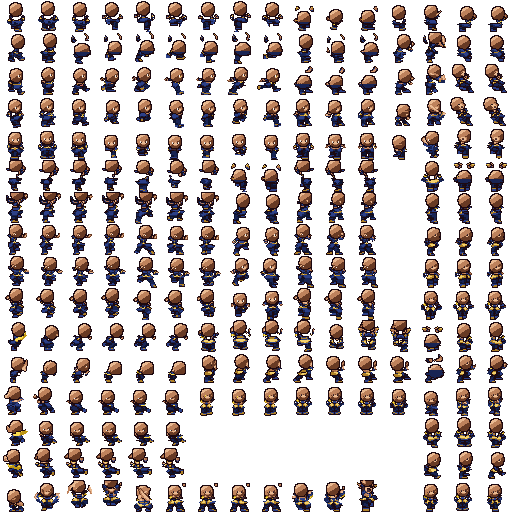
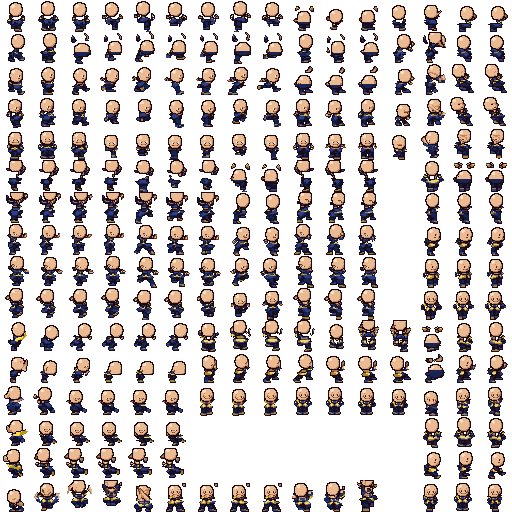
Bald heads lit the same from every side
The bald head was lit from the upper left in two halves, so from the front a dark half fell across the face and from behind it looked like a half-shaded egg, while the side views read fine. It is now the face's own light tone all over, with a thin shadow crescent on the lower-right rim and a small shine up on the left, so the down, up and side views match.

diff --git a/misc/hero_skins/make_skins.py b/misc/hero_skins/make_skins.py
@@ -148,6 +148,9 @@ HEAD_ROW_PIXELS = 5
 # NOTE: marker colours for the slash streak between bald_head and the
 # palette; nothing in the original uses them
 STREAK = [(1, 2, 3), (4, 5, 6), (7, 8, 9)]
+# NOTE: marker for the bald head's shine, turned into SHINE_RGB
+SHINE = (10, 11, 12)
+SHINE_RGB = (252, 222, 196)
 
 
 def components(mask):
@@ -335,11 +338,14 @@ def bald_head(cell):
     nx = (xx + 0.5 - bx) / BALD_RX
     ny = (yy + 0.5 - by) / BALD_RY
     dome = (nx ** 2 + ny ** 2 <= 1.0) & ~streak
-    light = 0.62 - 0.35 * nx - 0.55 * ny
-    shade = np.where(light > 0.95, 2, np.where(light > 0.55, 1, 0))
-    for k in range(3):
-        m = dome & (shade == k)
-        cell[m] = SKIN[k] + (255,)
+    # NOTE: shaded so it reads the same from every side: the face's own
+    # light tone all over, a thin shadow crescent on the lower right rim
+    # and a small shine up on the left, never a dark half across the face
+    r2 = nx ** 2 + ny ** 2
+    cell[dome] = SKIN[2] + (255,)
+    cell[dome & (r2 > 0.55) & (nx + ny > 0.45)] = SKIN[1] + (255,)
+    shine = ((nx + 0.38) ** 2 + (ny + 0.5) ** 2) <= 0.06
+    cell[dome & shine] = SHINE + (255,)
     # NOTE: the face goes back where it was, over the dome; no hair is left
     # anywhere (the long hair down the back, the ponytail)
     cell[face] = keep[face]
@@ -431,6 +437,7 @@ def class_cell(cell, pal):
         put(ACCENT[0], pal['cloth'][1], neck)
         put(ACCENT[1], pal['cloth'][2], neck)
     slash = is_col(cell, STREAK)
+    put(SHINE, SHINE_RGB)
     for s, d in zip(SKIN, MALE_SKIN):
         put(s, d, ~slash)
     put(STREAK[0], pal['accent'][0])
